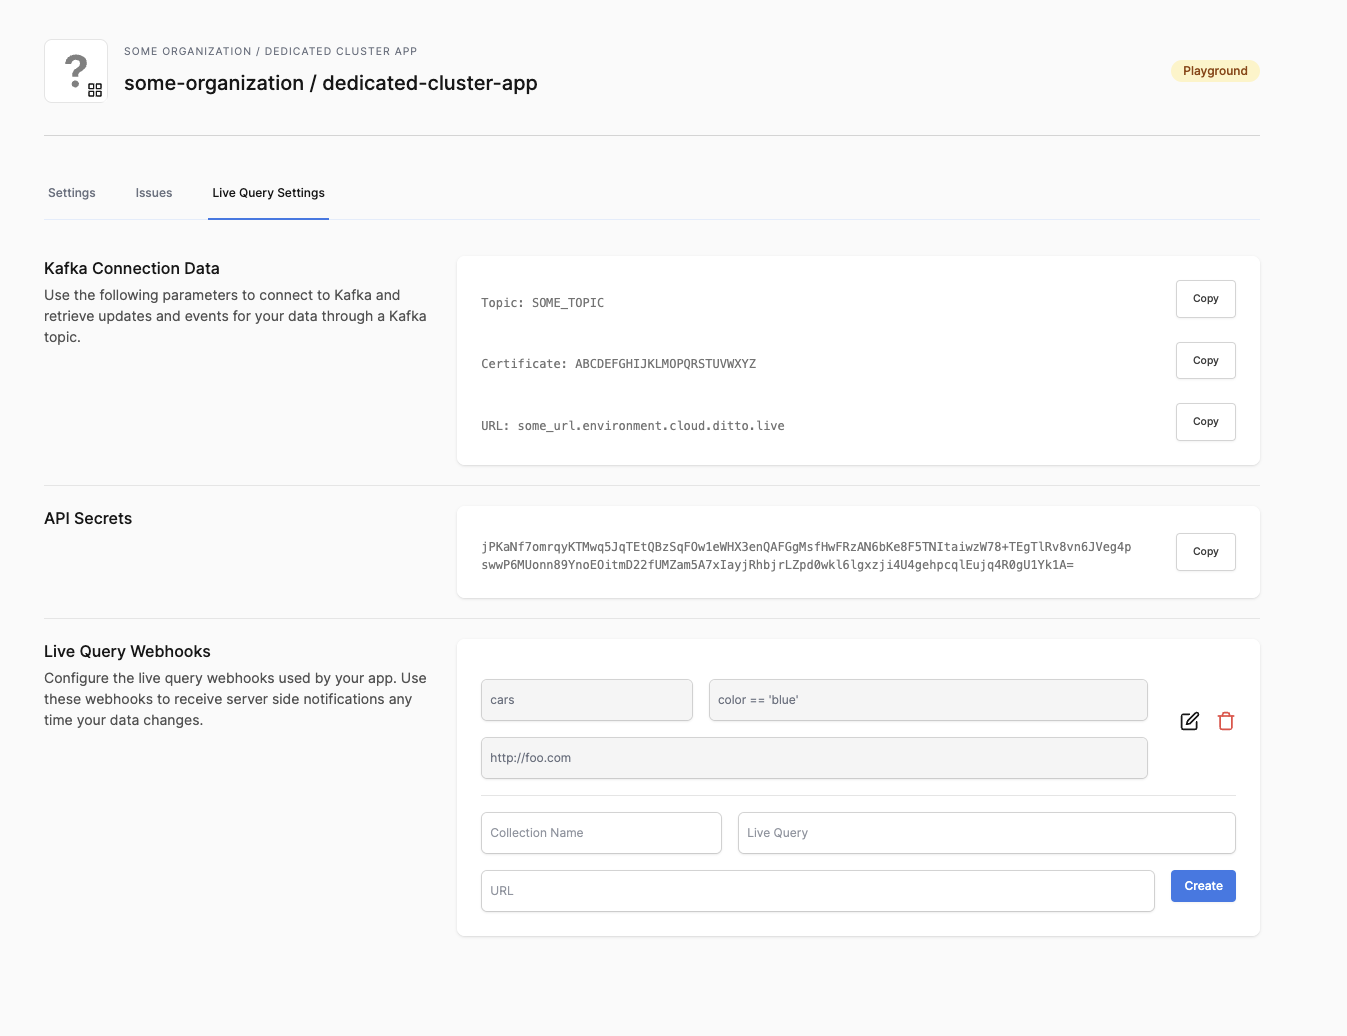
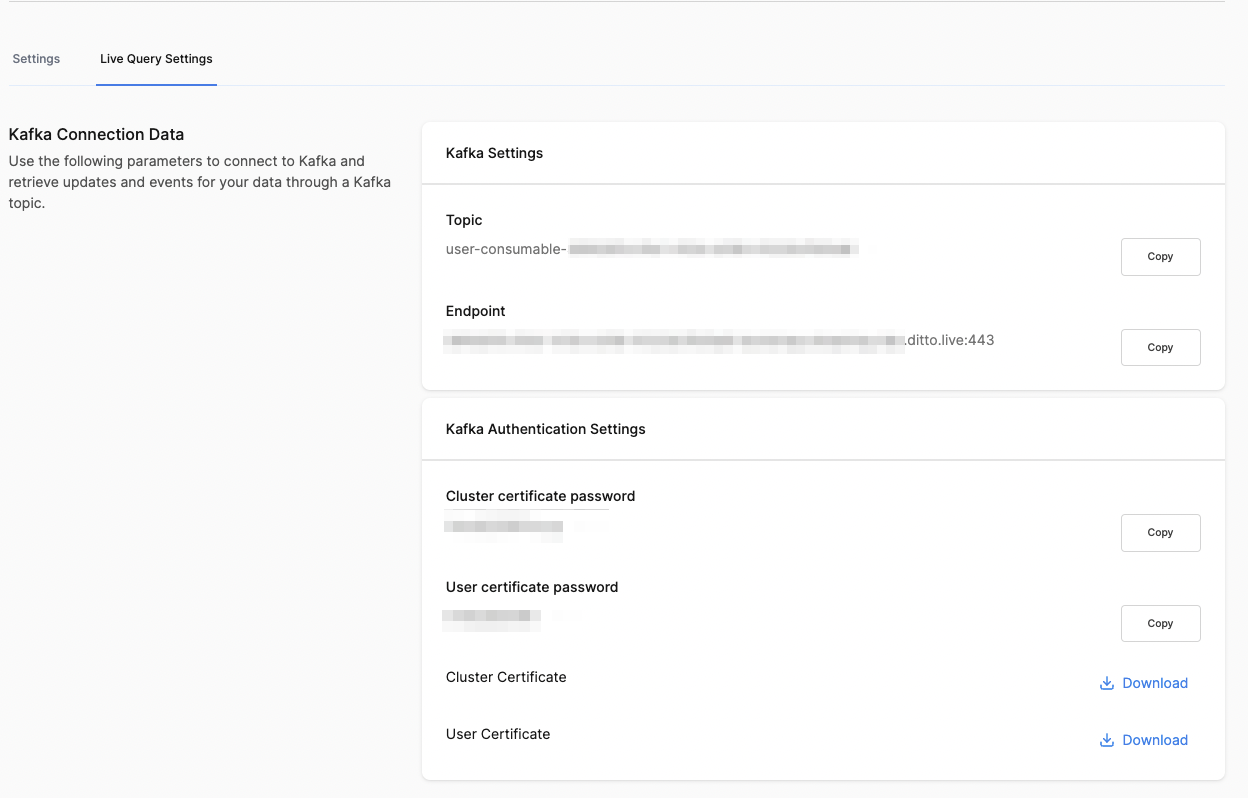
Add working Kafka Tutorial

diff --git a/docs/tutorials/kafka/2-consumer.md b/docs/tutorials/kafka/2-consumer.md
@@ -1,0 +1,219 @@
+---
+title: '2 - Consuming events'
+---
+
+import Tabs from '@theme/Tabs';
+import TabItem from '@theme/TabItem';
+
+## Consuming events
+
+Once you have your consumer running, you will see events written to the console every time a change is replicated to the Ditto Big Peer. 
+
+While the script is running, make a change to see the event in the console. For example, `upsert` a new value into the `people` collection:
+
+
+<Tabs
+  groupId="programming-language"
+  defaultValue="javascript"
+  values={[
+    {label: 'HTTP', value: 'http'},
+    {label: 'JavaScript', value: 'javascript'},
+    {label: 'Swift', value: 'swift'},
+    {label: 'Objective-C', value: 'objc'},
+    {label: 'Kotlin', value: 'kotlin'},
+    {label: 'Java', value: 'java'},
+    {label: 'C#', value: 'csharp'},
+    {label: 'C++', value: 'cpp'},
+    {label: 'Rust', value: 'rust'},
+  ]
+}>
+
+<TabItem value="http">
+
+  ```bash
+  curl -X POST 'https://<CLOUD_ENDPOINT>/api/v1/collections/people/documents' \
+    --header 'X-HYDRA-CLIENT-ID: AAAAAAAAAAAAAAAAAAAABQ==' \
+    --header 'Content-Type: application/json' \
+    --data-raw '{"name": "Susan", "age": 31}'
+  ```
+
+</TabItem>
+<TabItem value="javascript">
+
+```js
+const docID = await ditto.store.collection('people').upsert({
+    name: "Susan",
+    age: 31
+})
+```
+
+</TabItem>
+<TabItem value="swift">
+
+```swift
+// upsert JSON-compatible data into Ditto
+let docId = ditto.store["people"].upsert([
+    "name": "Susan",
+    "age": 31
+])
+```
+
+</TabItem>
+<TabItem value="objc">
+
+```objc
+// upsert JSON-compatible data into Ditto
+DITDocumentID *docID = [[ditto.store collection:@"people"]
+     upsert:@{ @"name": @"Susan", @"age": [NSNumber numberWithInt:31] }
+     isDefault:false
+     error:nil];
+```
+
+</TabItem>
+<TabItem value="kotlin">
+
+```kotlin
+val docId = ditto.store["people"].upsert(mapOf(
+    "name" to "Susan",
+    "age" to 31
+))
+```
+
+</TabItem>
+<TabItem value="java">
+
+```java
+Map<String, Object> content = new HashMap<>();
+content.put("name", "Susan");
+content.put("age", 31);
+DittoDocumentID docId = ditto.store.collection("people").upsert(content);
+```
+
+</TabItem>
+<TabItem value="csharp">
+
+```csharp
+var content = new Dictionary<string, object>
+{
+    { "name", "Susan" },
+    { "age", 31 }
+};
+var docId = ditto.Store.Collection("people").upsert(content);
+```
+
+</TabItem>
+<TabItem value="cpp">
+
+```cpp
+json content = json({
+    { "name", "Susan" },
+    { "age", 31 }
+});
+DocumentId doc_id = ditto.store.collection("people").upsert(content);
+```
+
+</TabItem>
+<TabItem value="rust">
+
+  ```rust
+  use serde_json::json;
+  let content = json!({
+    "name": "Susan",
+    "age": 31
+  });
+  let doc_id = ditto.store().collection("people")?.upsert(content, None, false)?;
+  ```
+
+</TabItem>
+</Tabs>
+
+
+After changing a document, look at the terminal running the `bin/kafka-console-consumer.sh` script. 
+
+
+## New document created
+
+When a new document is created, `method` is `upsert` and the property `change.oldValue` will always be null.
+
+
+```json
+{
+  "txnId": 552789,
+  "type": "documentChanged",
+  "collection": "people",
+  "change": {
+    "method": "upsert",
+    "oldValue": null,
+    "newValue": {
+      "_id": "6213e9c90012e4af0017cb9f",
+      "date": 1645472201,
+      "name": "Susan",
+      "age": 31
+    }
+  }
+}
+```
+
+
+
+## Update
+
+When a document was updated, `method` is `upsert`, `change.oldValue` will contain the old version of the document and `change.newValue` contains the full document after the upsert was complete. `newValue` also includes all properties that did not change as a result of this operation. For example, even though we do not change "age" in the following example, we still see `age` in the resulting Kafka stream. 
+
+After updating the document `6213e9c90012e4af0017cb9f` with the properties:
+```
+{
+  ownedCars: 0, 
+  friends: [], 
+  name: "Frank"
+}
+```
+
+We will see the following JSON event stream through the Kafka console:
+
+```json
+{
+  "txnId": 553358,
+  "type": "documentChanged",
+  "collection": "people",
+  "change": {
+    "method": "upsert",
+    "oldValue": {
+      "_id": "6213e9c90012e4af0017cb9f",
+      "date": 1645472312,
+      "name": "Susan",
+      "age": 31
+    },
+    "newValue": {
+      "_id": "6213e9c90012e4af0017cb9f",
+      "date": 1645472312,
+      "name": "Frank",
+      "age": 31,
+      "ownedCars": 0,
+      "friends": []
+    }
+  }
+}
+```
+
+
+## Remove
+
+When a document was removed, `method` is `remove`, and the property `change.value` contains the full document at the time it was removed. 
+
+```json
+{
+  "txnId": 701251,
+  "type": "documentChanged",
+  "collection": "people",
+  "change": {
+    "method": "remove",
+    "value": {
+      "_id": "6213e9c90012e4af0017cb9f",
+      "date": 1645468039,
+      "name": "Susan",
+      "age": 31 
+    }
+  }
+}
+```

diff --git a/docs/tutorials/kafka/1-intro.md b/docs/tutorials/kafka/1-intro.md
@@ -14,46 +14,56 @@ The Kafka settings are only enabled if your Organization is on a dedicated clust
 
 ## Installing Kafka
 
-First, follow the instructions on [Kafka Quickstart](https://kafka.apache.org/quickstart) to try out basic Kafka locally. 
+If you aren't familiar with Kafka, first follow the instructions on [Kafka Quickstart](https://kafka.apache.org/quickstart) to try out basic Kafka locally. In this tutorial, we used scripts in the `bin` directory of `kafka_2.13-3.1.0`.
 
 ## Handling credentials 
 
-When you query the Big Peer, you must provide the proper credentials. In your organization page, click "Live Query Settings" and you will see the credentials for your cluster. Copy the Cluster Certificate and User Certificate into text files locally and give them good names. Keep these files safe!
+To connect to your Kafka instance, you need to have an SSL connection. In your organization page, click "Live Query Settings" and you will see the credentials for your cluster. Download the Cluster Certificate and User Certificate. Keep these files safe!
+
+**Organization Apps > Your App Name > Live Query Settings > Kafka Connection Data**
 
 ![kafka credentials](kafka-browser.png)
 
-## Simple test
-
-You can use the following command to test out your cluster.
-
-```bash
-bin/kafka-console-consumer.sh --bootstrap-server <your-endpoint>:443 \
---consumer-property security.protocol=SSL \
---consumer-property ssl.truststore.password=<CLUSTER_CERTIFICATE_PASSWORD> \
---consumer-property ssl.truststore.location=/path/to/my/cluster_certificate.txt \
---consumer-property ssl.keystore.location=<USER_CERTIFICATE_PASSWORD> \
---consumer-property ssl.keystore.password=/path/to/my/user_certificate.txt \
---group user-consumable-<your-app_id> \
---topic user-consumable-<your_app_id>
-```
-
-## Using configuration files
-
-Kafka instances have a `conf/server.properties` configuration file which can be used to specify the credentials so you don't need to pass them in on every consumer call.
+Here is how these authentication tokens match to the Kafka configuration:
 
 | | Ditto Name | Description |
 | --- | --- | --- |
-| `ssl.truststore.location` |   Cluster Certificate |  The CA cert to be used for kafka in PKCS12 format.|
-| `ssl.truststore.password` |  Cluster Certificate Password | The password used to decrypt the PKCS12 value. |
-| `ssl.keystore.location` |  User Certificate | User cert again in PKCS12 format once base64 decoded.|
-| `ssl.keystore.password` |  User Certificate password | The password used to decrypt the PKCS value. |
+| `ssl.truststore.location` |  Cluster Certificate |  The CA cert in PKCS12 format.|
+| `ssl.truststore.password` |  Cluster certificate password | The password used to decrypt the CA Cert value. |
+| `ssl.keystore.location` |  User Certificate | User cert in PKCS12 format.|
+| `ssl.keystore.password` |  User certificate password | The password used to decrypt the user cert. |
 
 
-For example, adding the above fields to `server.properties` would look something like:
+## Simple test
 
+You can use the following bash script to test out your cluster. Replace each variable with the corresponding information displayed in your app's live query settings.
+
+If it's working, you won't see any errors and the script will not shut down. Leave this script running in a terminal, and open a new terminal for the next section.
+
+
+```sh
+CLUSTER_CERT_LOCATION=/path/to/cluster.p12
+CLUSTER_CERT_PW=<YOUR_CLUSTER_CERT_PASSWORD>
+
+USER_CERT_LOCATION=/path/to/user.p12
+USER_CERT_PW=<YOUR_USER_CERT_PASSWORD>
+
+CLOUD_ENDPOINT=<YOUR_ENDPOINT>
+TOPIC=<YOUR_TOPIC>
+
+KAFKA=/path/to/kafka_2.13-3.1.0
+
+$KAFKA/bin/kafka-console-consumer.sh \
+ --bootstrap-server $CLOUD_ENDPOINT \
+ --consumer-property security.protocol=SSL \
+ --consumer-property ssl.truststore.password=$CLUSTER_CERT_PW \
+ --consumer-property ssl.truststore.location=$CLUSTER_CERT_LOCATION \
+ --consumer-property ssl.keystore.password=$USER_CERT_PW \
+ --consumer-property ssl.keystore.location=$USER_CERT_LOCATION \
+ --group $TOPIC \
+ --topic $TOPIC 
 ```
-ssl.truststore.location=/path/to/my/cluster_certificate.txt
-ssl.truststore.password=<CLUSTER_CERTIFICATE_PASSWORD>
-ssl.keystore.location=/path/to/my/user_certificate.txt
-ssl.keystore.password=<USER_CERTIFICATE_PASSWORD>
-```
+
+:::info
+The Kafka `Group` and `Topic` should both be set to the same string displayed in the Ditto portal.
+:::

diff --git a/docs/tutorials/kafka/3-producers.md b/docs/tutorials/kafka/3-producers.md
@@ -1,0 +1,9 @@
+---
+title: '3 - Producing events'
+---
+ 
+## Producing events
+
+Currently, Ditto only supports consuming events from the Kafka endpoint topic  `user-consumable-APPID`. 
+
+If you want to produce events as a result of a consumable event, use the the [Ditto SDK](/concepts/upsert).
